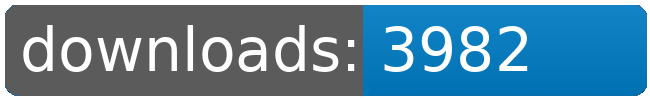
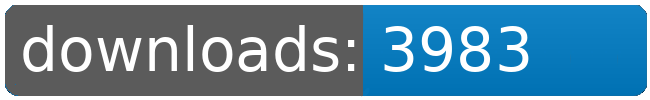
dl log written

Changed region(s): [[0.7692, 0.42, 0.8308, 0.72], [0.7692, 0.27, 0.8308, 0.39]]

diff --git a/README.md b/README.md
@@ -43,8 +43,8 @@
 		<td>3907</td>
 		<td>3934</td>
 		<td>3963</td>
-		<td>3982</td>
-		<td>+ 19</td>
+		<td>3983</td>
+		<td>+ 20</td>
 	</tr>
 	<tr>
 		<td>Jaws</td>
@@ -109,8 +109,8 @@
 		<td></td>
 		<td></td>
 		<td></td>
-		<td>26207</td>
-		<td>144</td>
+		<td>26208</td>
+		<td>145</td>
 	</tr>
 </table>
 </sub></sup>
@@ -135,8 +135,8 @@
 		<td>3907</td>
 		<td>3934</td>
 		<td>3963</td>
-		<td>3982</td>
-		<td>+ 19</td>
+		<td>3983</td>
+		<td>+ 20</td>
 	</tr>
 	<tr>
 		<td>Louise.Conglomerate.Shipyards</td>
@@ -223,8 +223,8 @@
 		<td></td>
 		<td></td>
 		<td></td>
-		<td>26207</td>
-		<td>144</td>
+		<td>26208</td>
+		<td>145</td>
 	</tr>
 </table>
 </sub></sup>
